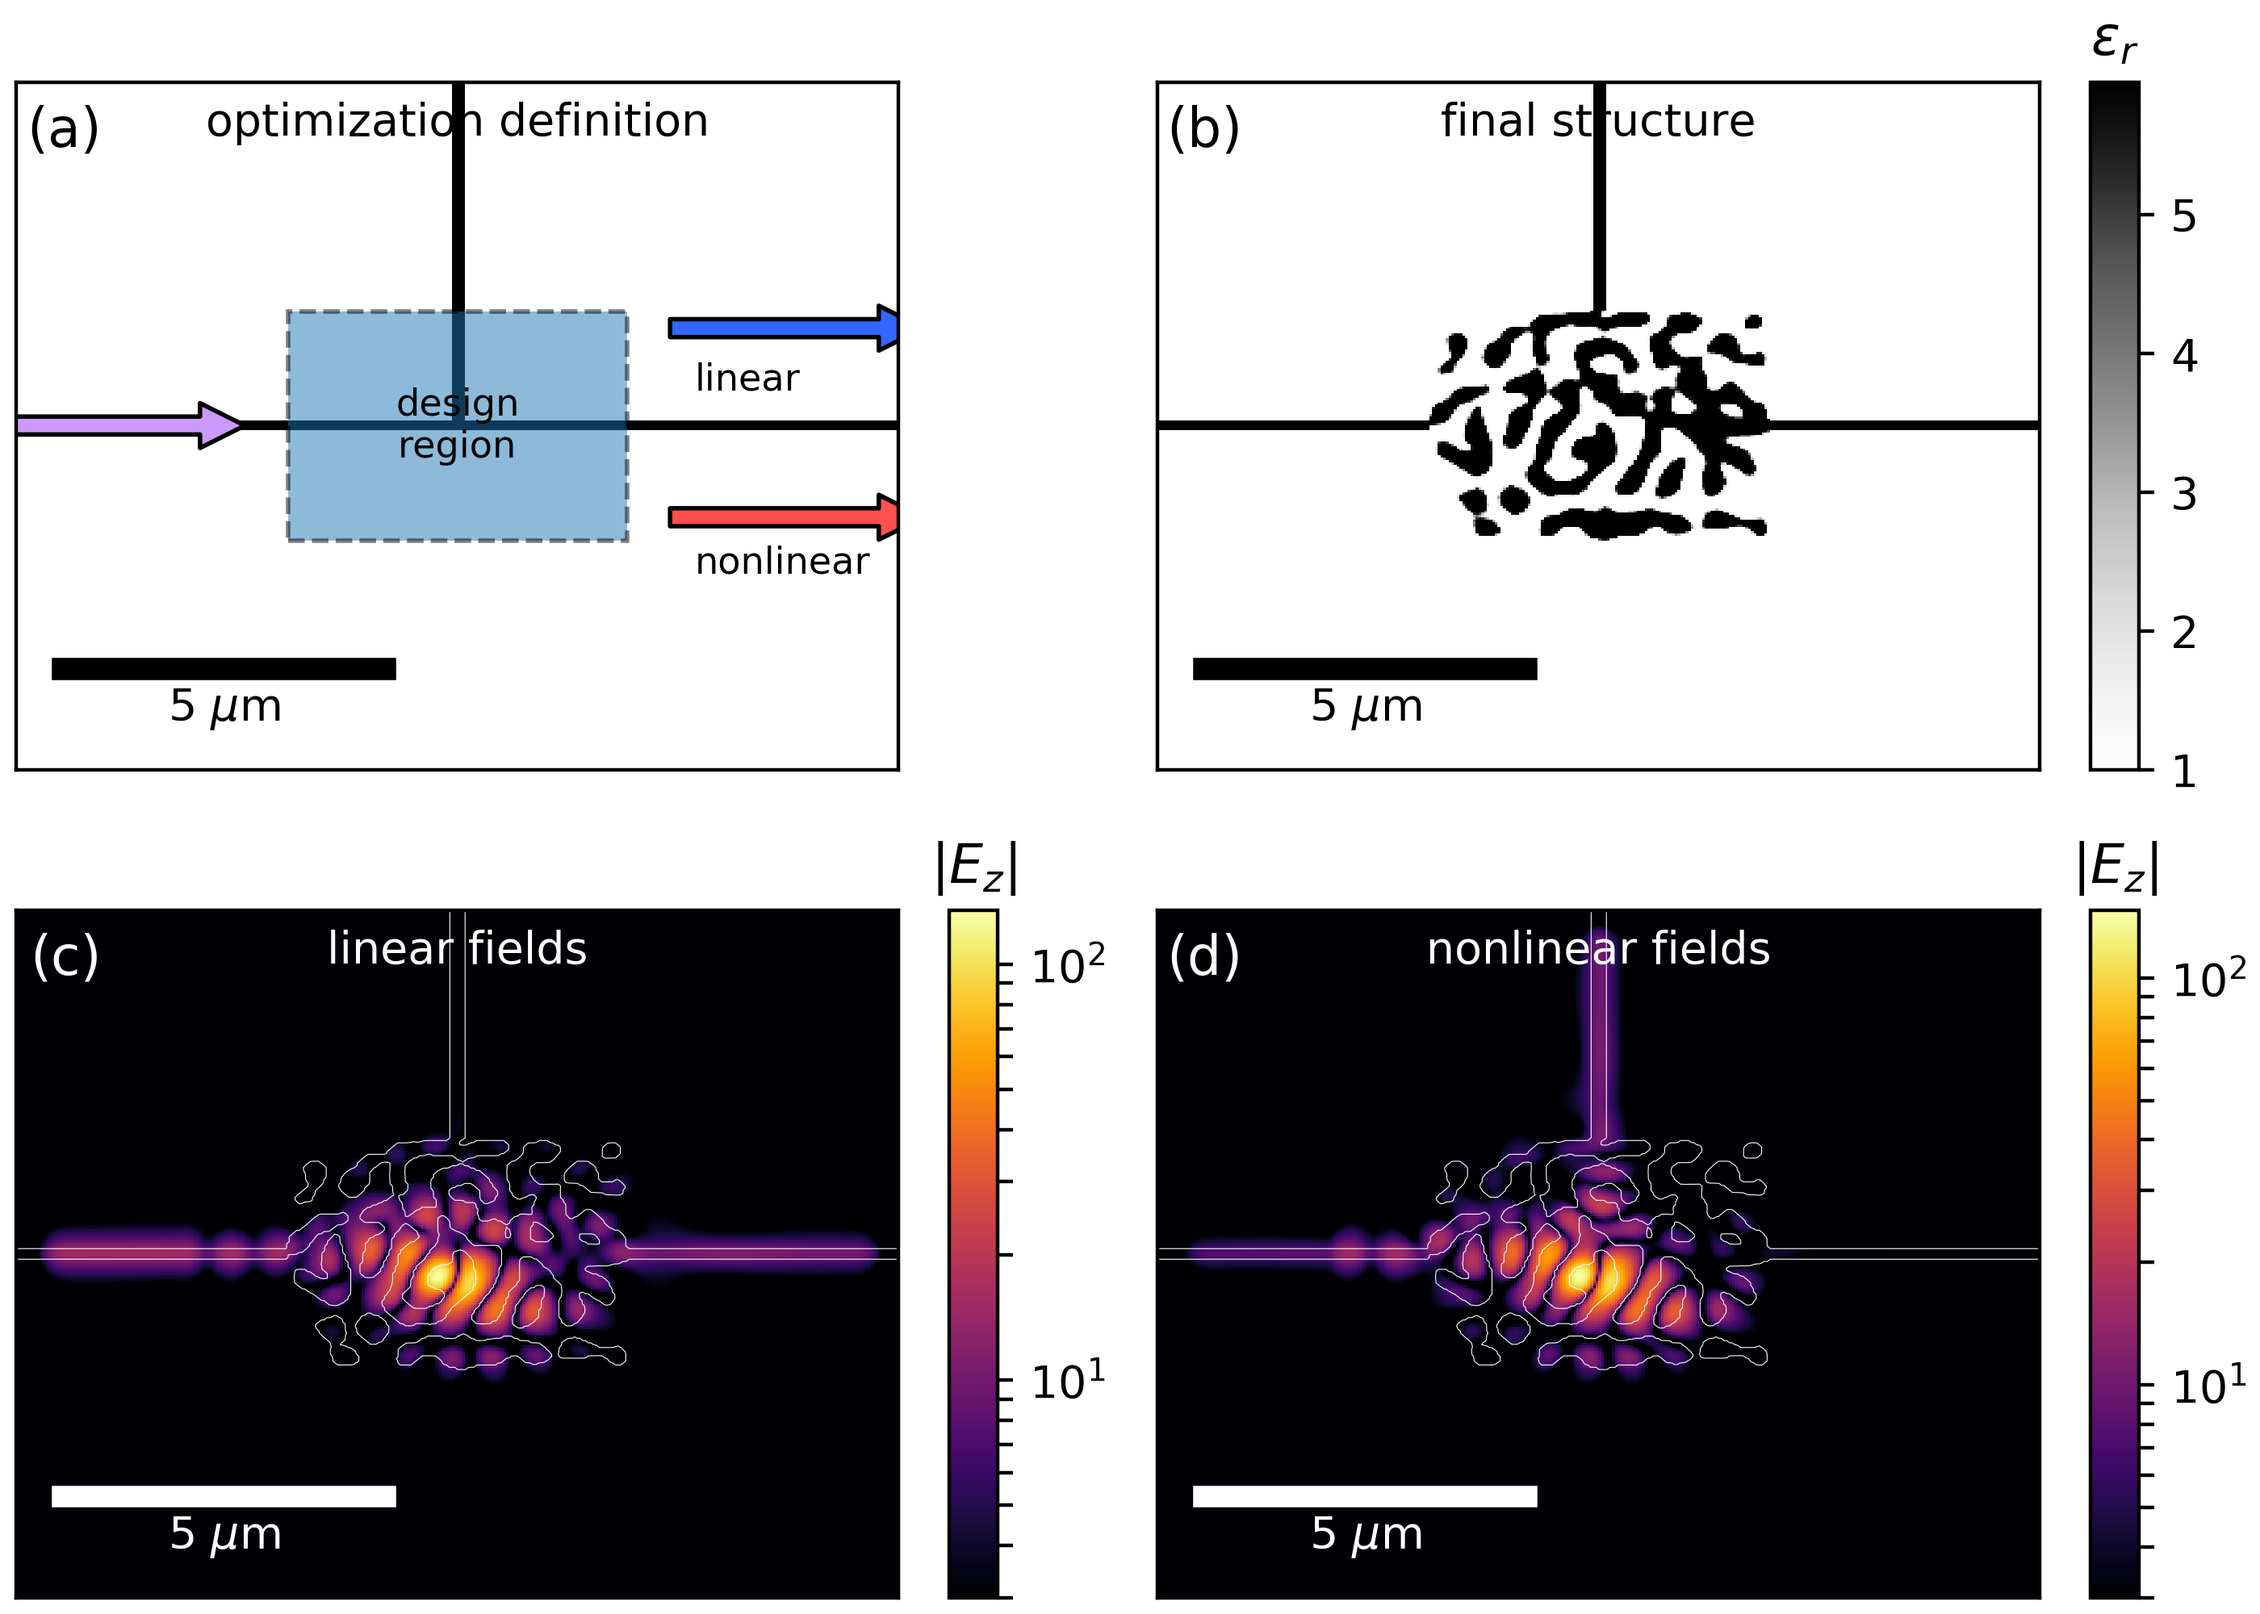
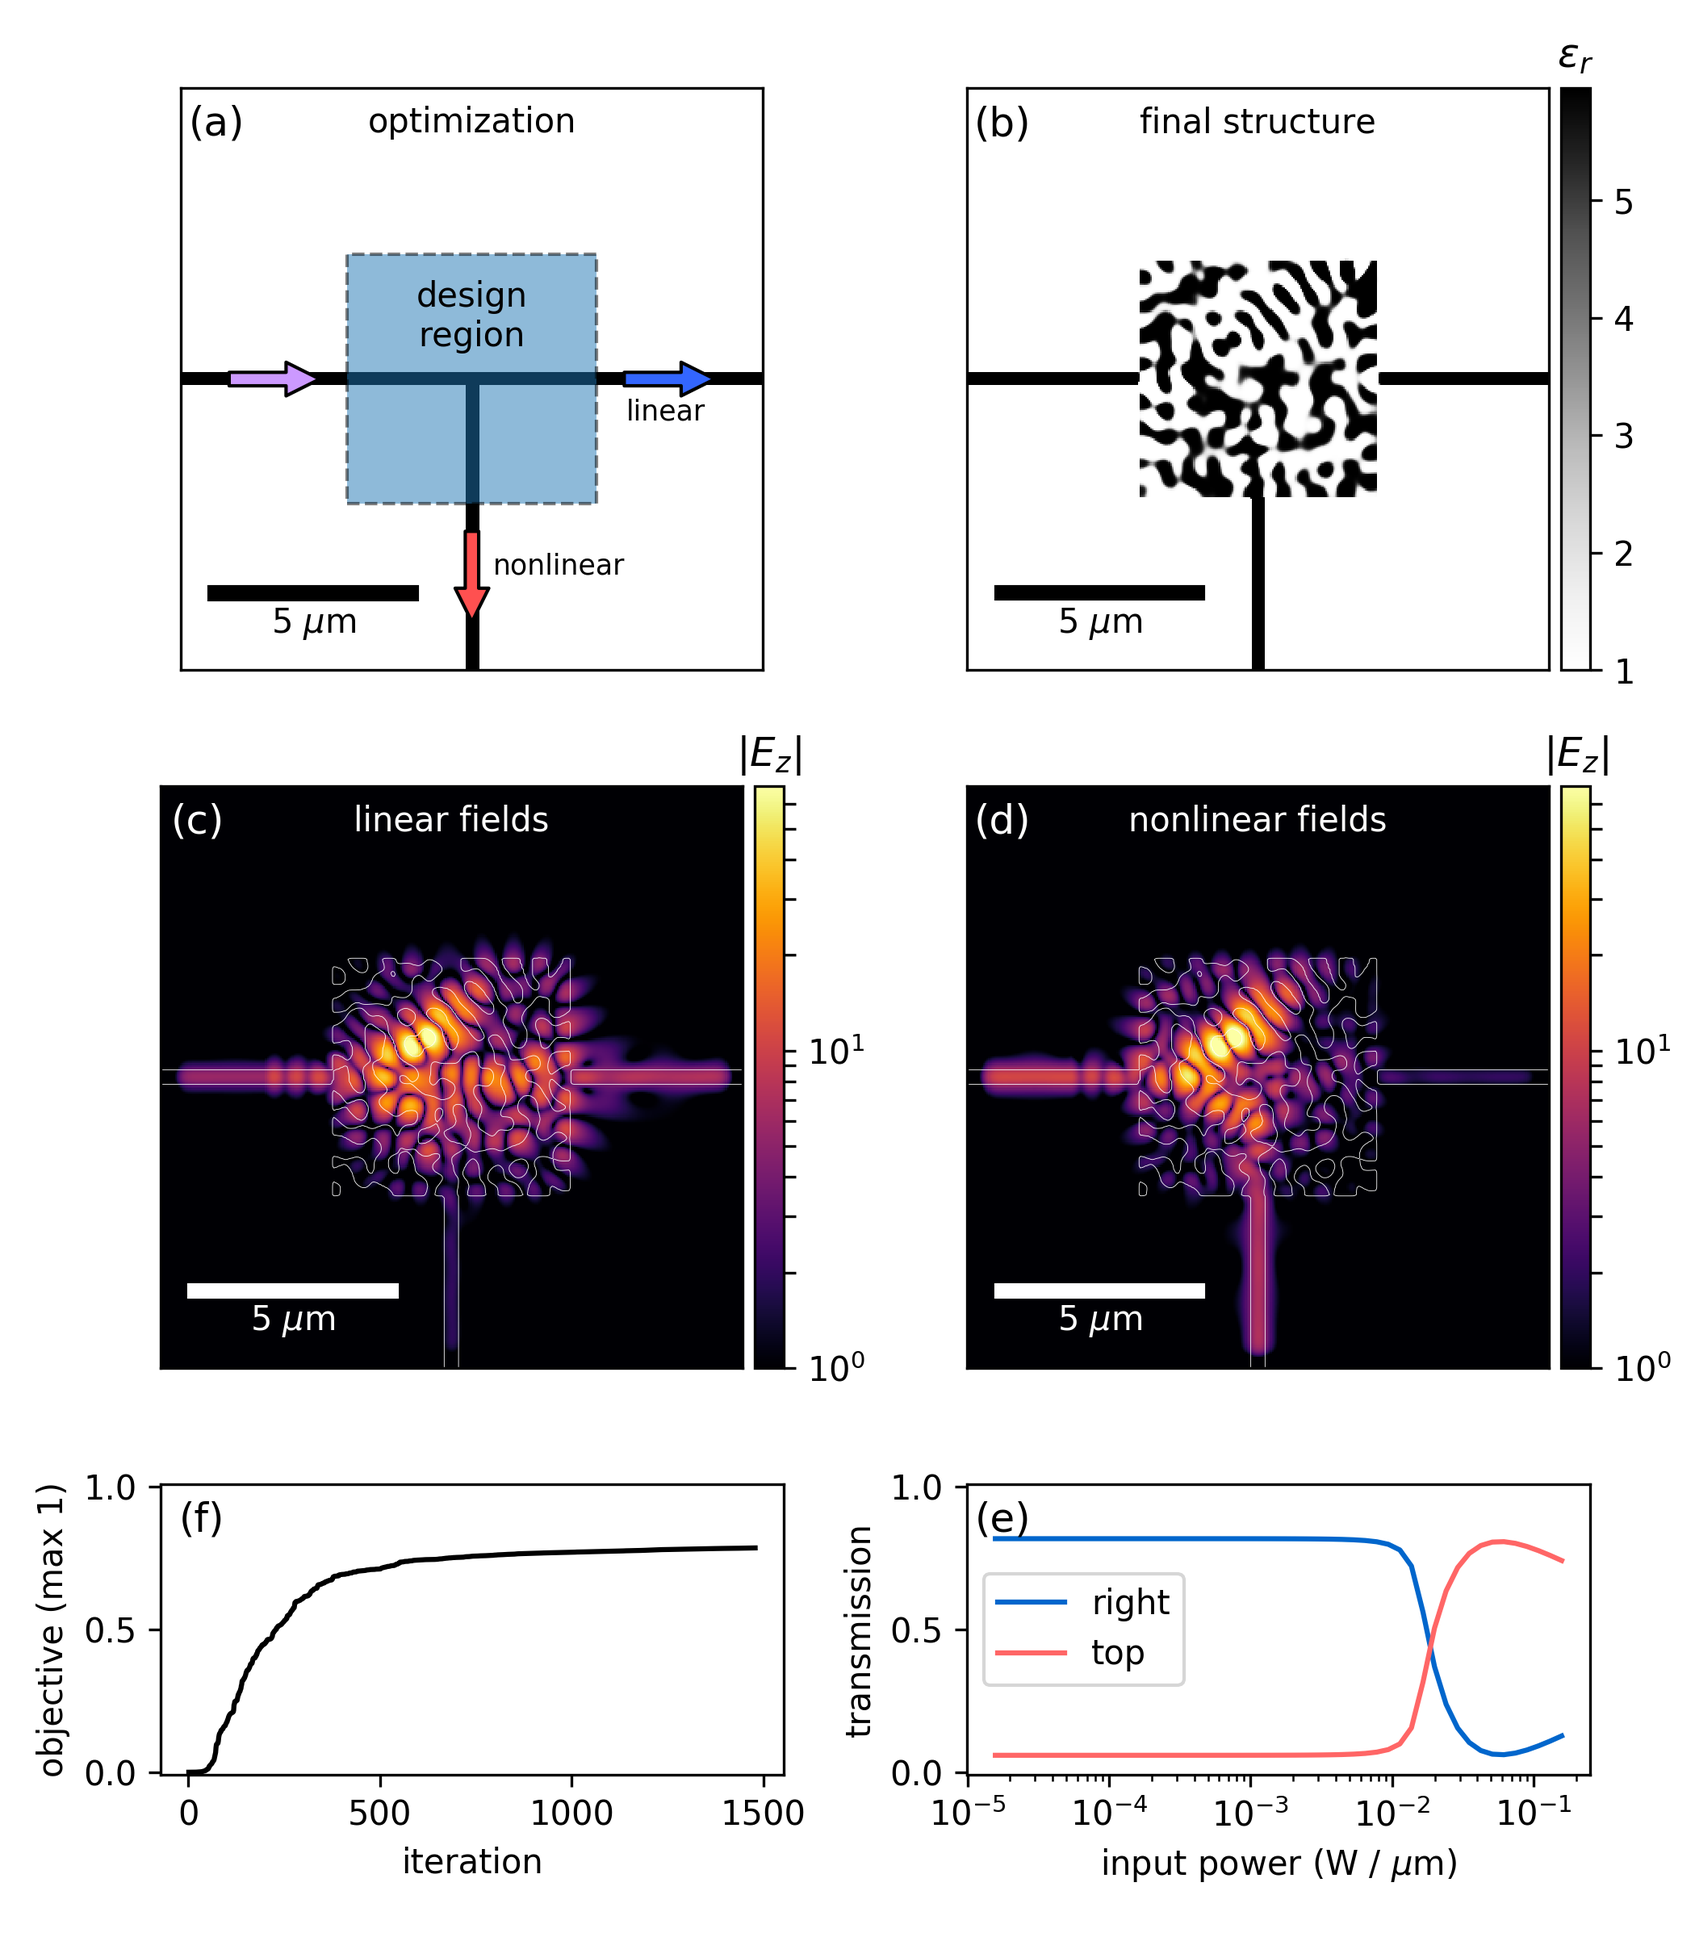
applied ian's changes to 2 and 3 poit

diff --git a/data/plot_generator.py b/data/plot_generator.py
@@ -61,11 +61,19 @@ def plot_Device(D):
 
 def plot_two_port(D):
 
+
+    f = plt.figure(figsize=(7, 8))
+    gs = gridspec.GridSpec(3, 2, figure=f, height_ratios=[1, 1, 0.3])
+    ax_drawing = plt.subplot(gs[0, 0])
+    ax_eps = plt.subplot(gs[0, 1])
+    ax_lin = plt.subplot(gs[1, 0])
+    ax_nl = plt.subplot(gs[1, 1])
+    ax_obj = plt.subplot(gs[2, 0])
+    ax_power = plt.subplot(gs[2, 1])
+
     eps_disp, design_region = two_port(D.L, D.H, D.w, D.l, D.spc, D.dl, D.NPML, D.eps_m)
-    f, (ax_top, ax_mid, ax_bot) = plt.subplots(3, 2, figsize=(7, 5), constrained_layout=True)
 
     # draw structure
-    ax_drawing = ax_top[0]
     im = ax_drawing.pcolormesh(D.x_range, D.y_range, eps_disp.T, cmap='Greys')
     ax_drawing.set_xlabel('x position ($\mu$m)')
     ax_drawing.set_ylabel('y position ($\mu$m)')
@@ -134,12 +142,11 @@ def plot_two_port(D):
     ax_drawing.set_aspect('equal', anchor='C', share=True)
 
     # permittivity
-    ax_eps = ax_top[1]
     im = ax_eps.pcolormesh(D.x_range, D.y_range, D.simulation.eps_r.T, cmap='Greys')
     ax_eps.set_xlabel('x position ($\mu$m)')
     ax_eps.set_ylabel('y position ($\mu$m)')
     # ax_eps.set_title('relative permittivity')
-    cbar = plt.colorbar(im, ax=ax_eps)
+    cbar = colorbar(im)
     cbar.ax.set_title('$\epsilon_r$')
 
     ax_eps.get_xaxis().set_visible(False)
@@ -163,7 +170,6 @@ def plot_two_port(D):
     ax_eps.set_aspect('equal', anchor='C', share=True)
 
     # linear fields
-    ax_lin = ax_mid[0]
     E_lin = np.abs(D.Ez.T)
     vmin = 3
     vmax = E_lin.max()/1.5
@@ -172,7 +178,7 @@ def plot_two_port(D):
     ax_lin.set_xlabel('x position ($\mu$m)')
     ax_lin.set_ylabel('y position ($\mu$m)')
     # ax_lin.set_title('linear fields')
-    cbar = plt.colorbar(im, ax=ax_lin)
+    cbar = colorbar(im)
     cbar.ax.set_title('$|E_z|$')
     # cbar.ax.tick_params(axis='x', direction='in', labeltop=True)
     ax_lin.annotate('linear fields', xy=(0.5, 0.5), xytext=(0.5, 0.94),
@@ -196,7 +202,6 @@ def plot_two_port(D):
     ax_lin.set_aspect('equal', anchor='C', share=True)
 
     # nonlinear fields
-    ax_nl = ax_mid[1]
     E_nl = np.abs(D.Ez_nl.T)
     vmin = 3
     # vmax = E_nl.max()    
@@ -204,7 +209,7 @@ def plot_two_port(D):
     ax_nl.contour(D.x_range, D.y_range, D.simulation.eps_r.T, levels=2, linewidths=0.2, colors='w')
     ax_nl.set_xlabel('x position ($\mu$m)')
     ax_nl.set_ylabel('y position ($\mu$m)')
-    cbar = plt.colorbar(im, ax=ax_nl)
+    cbar = colorbar(im)
     cbar.ax.set_title('$|E_z|$')    
     ax_nl.annotate('nonlinear fields', xy=(0.5, 0.5), xytext=(0.5, 0.94),
                     xycoords='axes fraction',
@@ -228,7 +233,6 @@ def plot_two_port(D):
 
 
     # objective function
-    ax_obj = ax_bot[0]
     obj_list = D.optimization.objfn_list
     iter_list = range(1, len(obj_list) + 1)
     ax_obj.plot(iter_list, obj_list)
@@ -249,9 +253,7 @@ def plot_two_port(D):
     set_axis_font(inset, 6)
 
     # power scan
-    ax_power = ax_bot[1] 
-
-    ax_power.plot(D.powers, D.transmissions[0])
+    ax_power.plot(D.powers, D.transmissions[0], color='#0066cc')
     ax_power.set_xscale('log')
     ax_power.set_xlabel('input power (W / $\mu$m)')
     ax_power.set_ylabel('transmission')
@@ -264,6 +266,7 @@ def plot_two_port(D):
     # ax_power.legend(('right', 'top'))
 
     apply_sublabels([ax_drawing, ax_eps, ax_lin, ax_nl, ax_power, ax_obj], invert_color_inds=[False, False, True, True, False, False])
+    f.tight_layout()
 
     return f
 
@@ -274,11 +277,18 @@ def plot_two_port(D):
 
 def plot_three_port(D):
 
+    f = plt.figure(figsize=(7, 8))
+    gs = gridspec.GridSpec(3, 2, figure=f, height_ratios=[1, 1, 0.3])
+    ax_drawing = plt.subplot(gs[0, 0])
+    ax_eps = plt.subplot(gs[0, 1])
+    ax_lin = plt.subplot(gs[1, 0])
+    ax_nl = plt.subplot(gs[1, 1])
+    ax_obj = plt.subplot(gs[2, 0])
+    ax_power = plt.subplot(gs[2, 1])
+
     eps_disp, design_region = three_port(D.L, D.H, D.w, D.l, D.spc, D.dl, D.NPML, D.eps_m)
-    f, (ax_top, ax_mid, ax_bot) = plt.subplots(3, 2, figsize=(7, 10), constrained_layout=True)
 
     # draw structure
-    ax_drawing = ax_top[0]
     im = ax_drawing.pcolormesh(D.x_range, D.y_range, eps_disp.T, cmap='Greys')
     ax_drawing.set_xlabel('x position ($\mu$m)')
     ax_drawing.set_ylabel('y position ($\mu$m)')
@@ -346,12 +356,11 @@ def plot_three_port(D):
 
 
     # permittivity
-    ax_eps = ax_top[1]
     im = ax_eps.pcolormesh(D.x_range, D.y_range, D.simulation.eps_r.T, cmap='Greys')
     ax_eps.set_xlabel('x position ($\mu$m)')
     ax_eps.set_ylabel('y position ($\mu$m)')
     # ax_eps.set_title('relative permittivity')
-    cbar = plt.colorbar(im, ax=ax_eps)
+    cbar = colorbar(im)
     cbar.ax.set_title('$\epsilon_r$')
 
     ax_eps.get_xaxis().set_visible(False)
@@ -375,7 +384,6 @@ def plot_three_port(D):
     ax_eps.set_aspect('equal', anchor='C', share=True)
 
     # linear fields
-    ax_lin = ax_bot[0]
     E_lin = np.abs(D.Ez.T)
     vmin = 3
     vmax = E_lin.max()
@@ -384,7 +392,7 @@ def plot_three_port(D):
     ax_lin.set_xlabel('x position ($\mu$m)')
     ax_lin.set_ylabel('y position ($\mu$m)')
     # ax_lin.set_title('linear fields')
-    cbar = plt.colorbar(im, ax=ax_lin)
+    cbar = colorbar(im)
     cbar.ax.set_title('$|E_z|$')
     # cbar.ax.tick_params(axis='x', direction='in', labeltop=True)
     ax_lin.annotate('linear fields', xy=(0.5, 0.5), xytext=(0.5, 0.94),
@@ -408,7 +416,6 @@ def plot_three_port(D):
     ax_lin.set_aspect('equal', anchor='C', share=True)
 
     # nonlinear fields
-    ax_nl = ax_bot[1]
     E_nl = np.abs(D.Ez_nl.T)
     vmin = 3
     vmax = E_nl.max()    
@@ -416,7 +423,7 @@ def plot_three_port(D):
     ax_nl.contour(D.x_range, D.y_range, D.simulation.eps_r.T, levels=2, linewidths=0.2, colors='w')
     ax_nl.set_xlabel('x position ($\mu$m)')
     ax_nl.set_ylabel('y position ($\mu$m)')
-    cbar = plt.colorbar(im, ax=ax_nl)
+    cbar = colorbar(im)
     cbar.ax.set_title('$|E_z|$')    
     ax_nl.annotate('nonlinear fields', xy=(0.5, 0.5), xytext=(0.5, 0.94),
                     xycoords='axes fraction',
@@ -440,7 +447,6 @@ def plot_three_port(D):
 
 
     # objective function
-    ax_obj = ax_bot[0]
     obj_list = D.optimization.objfn_list
     iter_list = range(1, len(obj_list) + 1)
     ax_obj.plot(iter_list, obj_list)
@@ -448,10 +454,8 @@ def plot_three_port(D):
     ax_obj.set_ylabel('objective (max 1)')
 
     # power scan
-    ax_power = ax_bot[1] 
-
-    for i in range(2):
-        ax_power.plot(D.powers, D.transmissions[i])
+    ax_power.plot(D.powers, D.transmissions[0], color='#0066cc')
+    ax_power.plot(D.powers, D.transmissions[1], color='#ff6666') 
     ax_power.set_xscale('log')
     ax_power.set_xlabel('input power (W / $\mu$m)')
     ax_power.set_ylabel('transmission')
@@ -460,6 +464,7 @@ def plot_three_port(D):
     # ax_power.set_aspect('equal', anchor='C', share=True)
 
     apply_sublabels([ax_drawing, ax_eps, ax_lin, ax_nl, ax_power, ax_obj], invert_color_inds=[False, False, True, True, False, False])
+    f.tight_layout()
 
     return f
 
@@ -471,17 +476,17 @@ def plot_three_port(D):
 
 def plot_ortho_port(D):
 
-    max_shift = np.max(D.simulation.compute_index_shift())
+    # max_shift = np.max(D.simulation.compute_index_shift())
 
-    print(np.sum(D.simulation.eps_r[1,:]>1))
-    print(np.sum(D.simulation.eps_r[:,1]>1))
-    print(np.sum(D.simulation.eps_r[:,-1]>1))
+    # print(np.sum(D.simulation.eps_r[1,:]>1))
+    # print(np.sum(D.simulation.eps_r[:,1]>1))
+    # print(np.sum(D.simulation.eps_r[:,-1]>1))
 
     eps_disp, design_region = ortho_port(D.L, D.L2, D.H, D.H2, D.w, D.l, D.dl, D.NPML, D.eps_m)
     # f, (ax_top, ax_mid, ax_bot) = plt.subplots(3, 2, figsize=(7, 10), constrained_layout=True)
 
     f = plt.figure(figsize=(7, 8))
-    gs = gridspec.GridSpec(3, 2, figure=f, height_ratios=[1, 1, 0.3])
+    gs = gridspec.GridSpec(3, 2, figure=f, height_ratios=[1, 1, 0.5])
     ax_drawing = plt.subplot(gs[0, 0])
     ax_eps = plt.subplot(gs[0, 1])
     ax_lin = plt.subplot(gs[1, 0])
@@ -495,18 +500,18 @@ def plot_ortho_port(D):
     im = ax_drawing.pcolormesh(D.x_range, D.y_range, eps_disp, cmap='Greys')
     ax_drawing.set_xlabel('x position ($\mu$m)')
     ax_drawing.set_ylabel('y position ($\mu$m)')
-    y_dist = 1.6
-    base_in = 7
-    tip_in = 3
-    y_shift = 0.01
+    y_dist = 0
+    base_in = 6
+    tip_in = 3.5
+    y_shift = 0.00
     arrow_in = mpatches.FancyArrowPatch((-base_in, +y_shift), (-tip_in, y_shift),
                                      mutation_scale=20, facecolor='#cc99ff')
     ax_drawing.add_patch(arrow_in)
-    arrow_top = mpatches.FancyArrowPatch((tip_in, y_dist+0.1+y_shift), (base_in, y_dist+0.1+y_shift),
+    arrow_top = mpatches.FancyArrowPatch((tip_in, y_dist+y_shift), (base_in, y_dist+y_shift),
                                      mutation_scale=20, facecolor='#3366ff',
                                      edgecolor='k')
     ax_drawing.add_patch(arrow_top)
-    arrow_bot = mpatches.FancyArrowPatch((tip_in, -y_dist+y_shift), (base_in, -y_dist+y_shift),
+    arrow_bot = mpatches.FancyArrowPatch((0, -tip_in), (0, -tip_in-(base_in-tip_in)),
                                      mutation_scale=20, facecolor='#ff5050')
     ax_drawing.add_patch(arrow_bot)
 
@@ -516,21 +521,21 @@ def plot_ortho_port(D):
                                     linestyle='--')
     ax_drawing.add_patch(design_box)
 
-    ax_drawing.annotate('design\nregion', (0.5, 0.5), xytext=(0.0, 0.0),
+    ax_drawing.annotate('design\nregion', (0.5, 0.5), xytext=(0.0, 1.5),
                     xycoords='axes fraction',
                     textcoords='data',
-                    size='small',
+                    size='medium',
                     color='k',
                     horizontalalignment='center',
                     verticalalignment='center')
-    ax_drawing.annotate('linear', (0, 0), xytext=(3.5, 0.8),
+    ax_drawing.annotate('linear', (0, 0), xytext=(3.7, -0.8),
                     xycoords='axes fraction',
                     textcoords='data',
                     size='small',
                     color='k',
                     horizontalalignment='left',
                     verticalalignment='center')
-    ax_drawing.annotate('nonlinear', (0, 0), xytext=(3.5, -2.4),
+    ax_drawing.annotate('nonlinear', (0, 0), xytext=(0.5, -4.5),
                     xycoords='axes fraction',
                     textcoords='data',
                     size='small',
@@ -650,18 +655,19 @@ def plot_ortho_port(D):
     # objective function
     obj_list = D.optimization.objfn_list
     iter_list = range(1, len(obj_list) + 1)
-    ax_obj.plot(iter_list, obj_list)
+    ax_obj.plot(iter_list, obj_list, color='k')
+    ax_obj.set_ylim([-0.01, 1.01])
     ax_obj.set_xlabel('iteration')
     ax_obj.set_ylabel('objective (max 1)')
 
     # power scan
 
-    for i in range(2):
-        ax_power.plot(D.powers, D.transmissions[i])
+    ax_power.plot(D.powers, D.transmissions[0], color='#0066cc')
+    ax_power.plot(D.powers, D.transmissions[1], color='#ff6666')    
     ax_power.set_xscale('log')
     ax_power.set_xlabel('input power (W / $\mu$m)')
     ax_power.set_ylabel('transmission')
-    ax_power.set_ylim([0, 1])
+    ax_power.set_ylim([-0.01, 1.01])
     ax_power.legend(('right', 'top'), loc='best')
     # ax_power.set_aspect('equal', anchor='C', share=True)
 
@@ -714,8 +720,8 @@ if __name__ == '__main__':
     # fig = plot_Device(D3)
     # plt.show()
 
-    fnameT = "/home/iwill/Downloads/T_port.p"
+    fnameT = "data/figs/devices/T_port.p"
     DT = load_device(fnameT)
     fig = plot_Device(DT)
-    # plt.savefig('data/test.png', dpi=400)
+    plt.savefig('data/test.png', dpi=300)
     plt.show()
